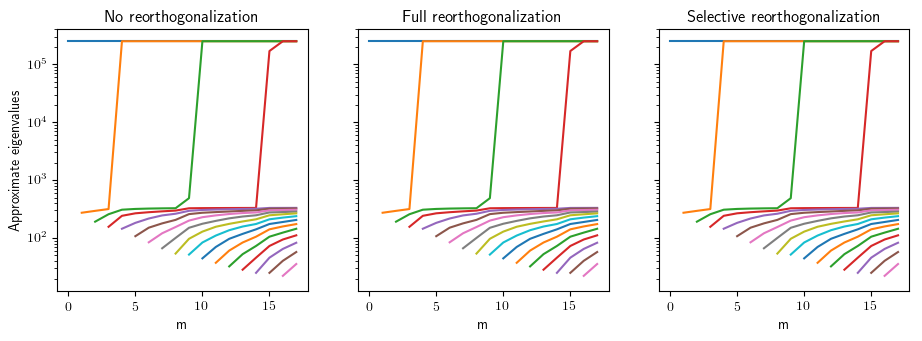
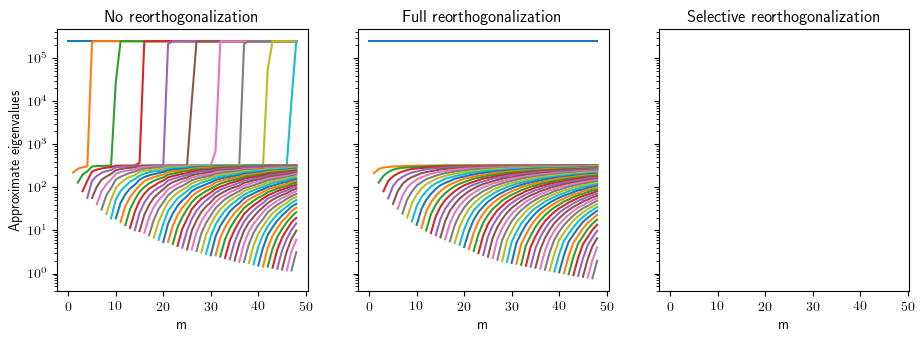
first-commit

diff --git a/lanczos.py b/lanczos.py
@@ -5,46 +5,57 @@ import scipy.sparse.linalg
 # See https://people.eecs.berkeley.edu/~demmel/ma221_Fall09/Matlab/
 #     https://people.eecs.berkeley.edu/~demmel/ma221_Fall09/Matlab/LANCZOS_README.html
 
-def Lanczos(A, m, v=None, reortho="selective", eigvals=None):
+def lanczos(A, m, v=None, reortho=None, eigvals=None):
   n = A.shape[0]
-  n_eigvecs =7
+  n_eigvecs =20
+
+  alpha = np.zeros(m)
+  beta = np.zeros(m+1) # beta[0] := 0
+  V = np.zeros((n, m+1))
+  # (j+1)-th (j+1)-by-(j+1) tridiagonal, j \in [0, m):
+  #   T(j+1) = Tridiag((alpha[:j+1], beta[1:j+1], alpha[:j+1]), (-1,0,1))
 
   if (type(v) == type(None)):
     v = np.random.rand(n)
   v /= np.linalg.norm(v)
-  V = v.reshape((n, 1))
-  
-  alpha = []
-  beta = [0.]
+  V[:,0] = v
   
   if (type(eigvals) != type(None)):
     data = {"approx_eigvecs":[], "approx_eigvals":[], "rel_iterated_error_bound":[], \
         "rel_error_bound":[], "global_error":[], "local_error":[]}
 
   for j in range(m):
+    
     w = A.dot(V[:,j])
-    if (j > 0):
-      w -= beta[j]*V[:,j-1]
-    alpha += [w.dot(V[:,j])]
-    w -= alpha[j]*V[:,j]
-    beta += [np.linalg.norm(w)]
-    V = np.concatenate([V, (w/beta[j+1]).reshape((n,1))], axis=1)
-    T = get_T(alpha, beta[1:-1])
+    alpha[j] = w.dot(V[:,j])
+    
 
-    if (j > 2):
-      if (reortho == "full"):
-        pass
-      elif (reortho == "selective"):
-        pass
+    if (j == 0):
+      w -= alpha[j]*V[:,j]
+    else:
+      w -= alpha[j]*V[:,j]+beta[j]*V[:,j-1]
 
-    if (j > 1):
+    if (reortho == "full"):
+      for reortho_id in range(2):
+        for k in range(j):
+          w -= w.dot(V[:,k])*V[:,k]
+    elif (reortho == "selective"):
+      pass
+    
+    beta[j+1] = np.linalg.norm(w)
+    V[:,j+1] = w/beta[j+1]
+
+    # Assemble tridiagonal T(j+1)
+    T = get_T(alpha[:j+1], beta[1:j+1])
+
+    if (j > 0): # For T(2), ..., T(m)
       if (type(eigvals) == type(None)):
         approx_eigvecs, approx_eigvals, iterated_error_bound = \
-          get_approx_eigvecs(T, V[:,:-1], A, beta[1:j], j, eigvals=None)
+          get_approx_eigvecs(V[:,:j+1], A, alpha[:j+1], beta[1:j+1], beta[j+1], j+1)
       else:
         approx_eigvecs, approx_eigvals, rel_iterated_error_bound, \
         rel_error_bound, global_error, local_error = \
-          get_approx_eigvecs(T, V[:,:-1], A, beta[1:j], j, eigvals=eigvals)
+          get_approx_eigvecs(V[:,:j+1], alpha[:j+1], beta[1:j+1], beta[j+1], j+1, A=A, eigvals=eigvals)
         data["approx_eigvecs"] += [approx_eigvecs]
         data["approx_eigvals"] += [approx_eigvals]
         data["rel_iterated_error_bound"] += [rel_iterated_error_bound]
@@ -52,9 +63,6 @@ def Lanczos(A, m, v=None, reortho="selective", eigvals=None):
         data["global_error"] += [global_error]
         data["local_error"] += [local_error]
 
-      T2 = np.max(np.abs(approx_eigvals))
-    #print("j = %d" %(m)) 
-  #return V[:,:-1], np.array(alpha), np.array(beta[1:-1])
   if (type(eigvals) == type(None)):
     return approx_eigvecs, approx_eigvals, iterated_error_bound
   else:
@@ -69,19 +77,17 @@ def get_eigvals(A, n_eigvecs):
   # eigvals are here sorted from most to less dominant
   return eigvals
 
-
-def get_approx_eigvecs(T, V, A, beta, n_eigvecs, eigvals=None):
-  # Compute eigpairs of the tridiagonal
-  reduced_eigvals, reduced_eigvecs = sparse.linalg.eigsh(T, k=n_eigvecs)
+def get_approx_eigvecs(V, alpha, beta, beta_j, n_eigvecs, A=None, eigvals=None):
+  reduced_eigvals, reduced_eigvecs = scipy.linalg.eigh_tridiagonal(alpha, beta, select="a")
   reduced_eigvals = reduced_eigvals[-1::-1]
   reduced_eigvecs = reduced_eigvecs[:,-1::-1]
-  # reduced eigpairs are now sorted from most to less dominant
+  # reduced eigpairs are sorted from most to less dominant
 
   # Form Ritz approximate eigenvectors of A
   Y = V.dot(reduced_eigvecs)
 
   # Iterated error bound:
-  iterated_error_bound = [abs(beta[-1])*abs(reduced_eigvecs[-1,i]) for i in range(n_eigvecs)]
+  iterated_error_bound = [abs(beta_j)*abs(reduced_eigvecs[-1,i]) for i in range(n_eigvecs)]
   
   if (type(eigvals) == type(None)):
     #return Y, reduced_eigvals, iterated_error_bound

diff --git a/examples/example01.py b/examples/example01.py
@@ -1,5 +1,5 @@
 import sys; sys.path += ["../"]
-from lanczos import Lanczos, get_T, get_approx_eigvecs, get_eigvals
+from lanczos import lanczos_demmel, get_T, get_approx_eigvecs, get_eigvals
 import numpy as np 
 import scipy.sparse as sparse
 import scipy.sparse.linalg
@@ -18,7 +18,7 @@ A = A.dot(A.T)
 v = np.random.rand(n)
 v /= np.linalg.norm(v)
 
-m = 20
+m = 50
 
 """
 V, alpha, beta = Lanczos(A, v, m)
@@ -47,14 +47,17 @@ pl.show()
 
 #n_eigvecs = 7
 eigvals = np.linalg.eigvalsh(A)[-1::-1]
-data = Lanczos(A, m, reortho="none", eigvals=eigvals)
+data = lanczos(A, m, eigvals=eigvals)
+data_full = lanczos(A, m, reortho="full", eigvals=eigvals)
 
-approx_eigvals = []
+approx_eigvals, approx_eigvals_full = [], []
 mm = len(data["approx_eigvals"])
 mj = len(data["approx_eigvals"][-1])
 for i in range(mj):
   approx_eigvals += [i*[None]+[d[i] for d in data["approx_eigvals"][i:]]]
+  approx_eigvals_full += [i*[None]+[d[i] for d in data_full["approx_eigvals"][i:]]]
 approx_eigvals = np.array(approx_eigvals)
+approx_eigvals_full = np.array(approx_eigvals_full)
 
 fig, ax = pl.subplots(1, 3, figsize=(11,3.4), sharey="row")
 
@@ -64,11 +67,11 @@ for i in range(mj):
 
 ax[1].set_title("Full reorthogonalization")
 for i in range(mj):
-  ax[1].semilogy(approx_eigvals[i,:])
+  ax[1].semilogy(approx_eigvals_full[i,:])
 
 ax[2].set_title("Selective reorthogonalization")
 for i in range(mj):
-  ax[2].semilogy(approx_eigvals[i,:])
+  ax[2].semilogy(approx_eigvals_full[i,:], "w")
 
 ax[0].set_ylabel("Approximate eigenvalues")
 ax[0].set_xlabel("m"); ax[1].set_xlabel("m"); ax[2].set_xlabel("m")

diff --git a/README.tex.md b/README.tex.md
@@ -189,9 +189,10 @@ for i in range(n_eigvecs):
 #        Plot local/global errors as in p. 370-371 of Demmel's book.
 #        Try
 # T2:    Implement restart strategies.
+
 #        Explicit vs implicit, see p. 239-240 of Dongara et al.'s book
 # R3/T3: Okay, now it seems that only the MD eigpair is being approximated ?!
-#        This is not the case for m < 5, see first plot.
+#        This is not the case for m < 5, see first plot.	
 # T4:    Measure and plot LOO?
 
 ```
